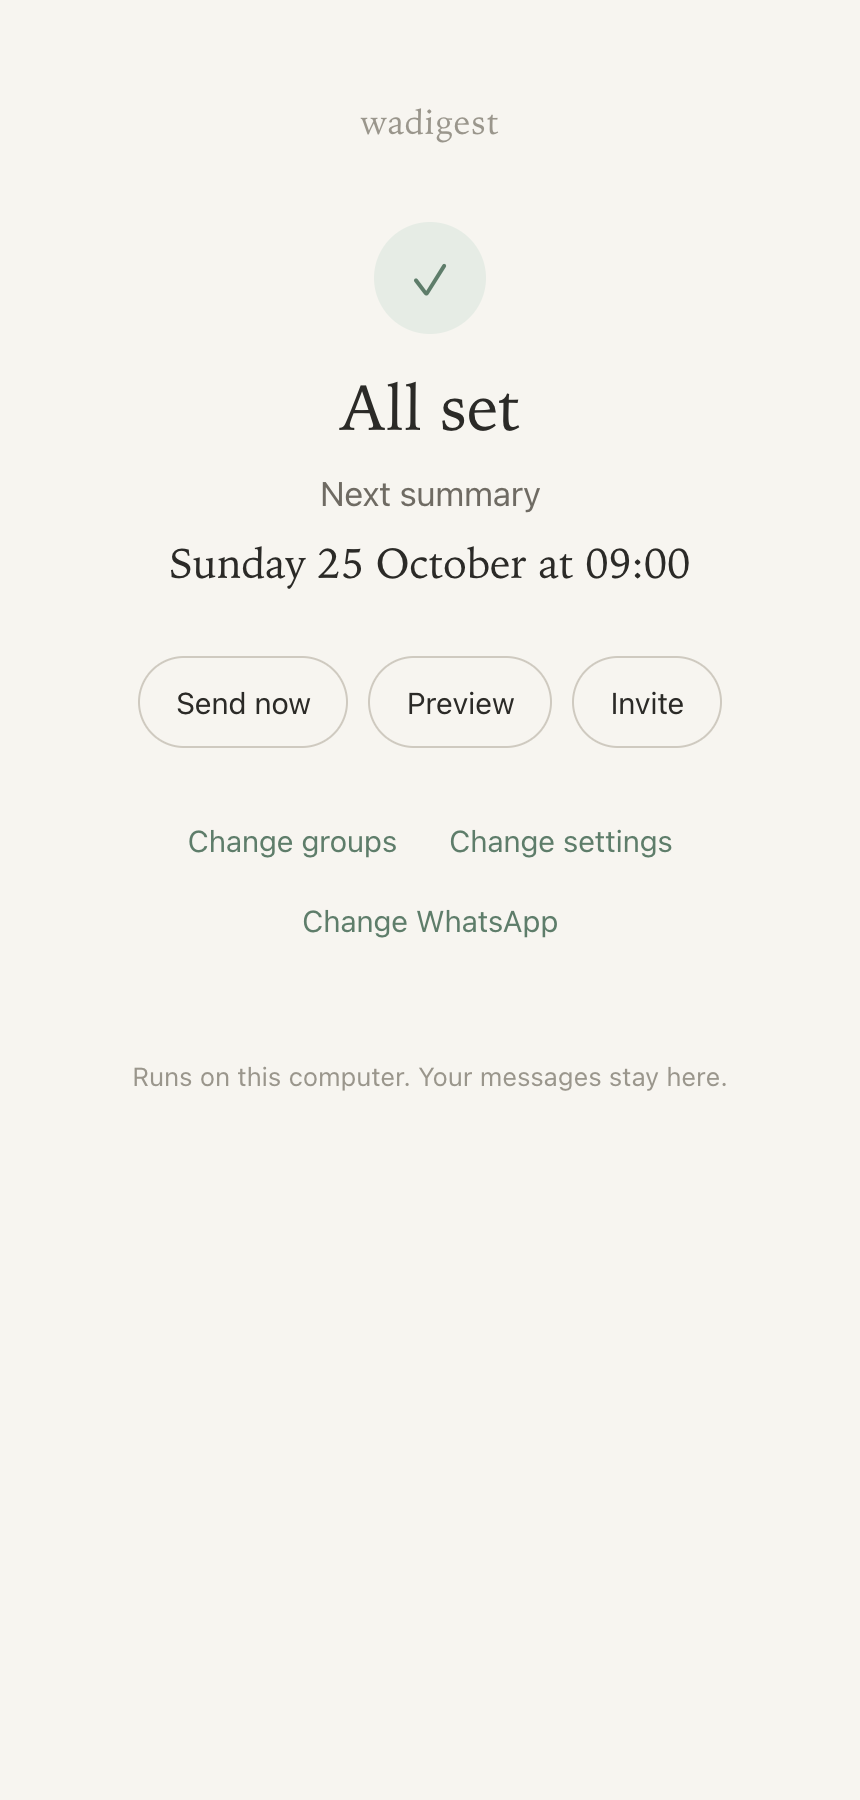
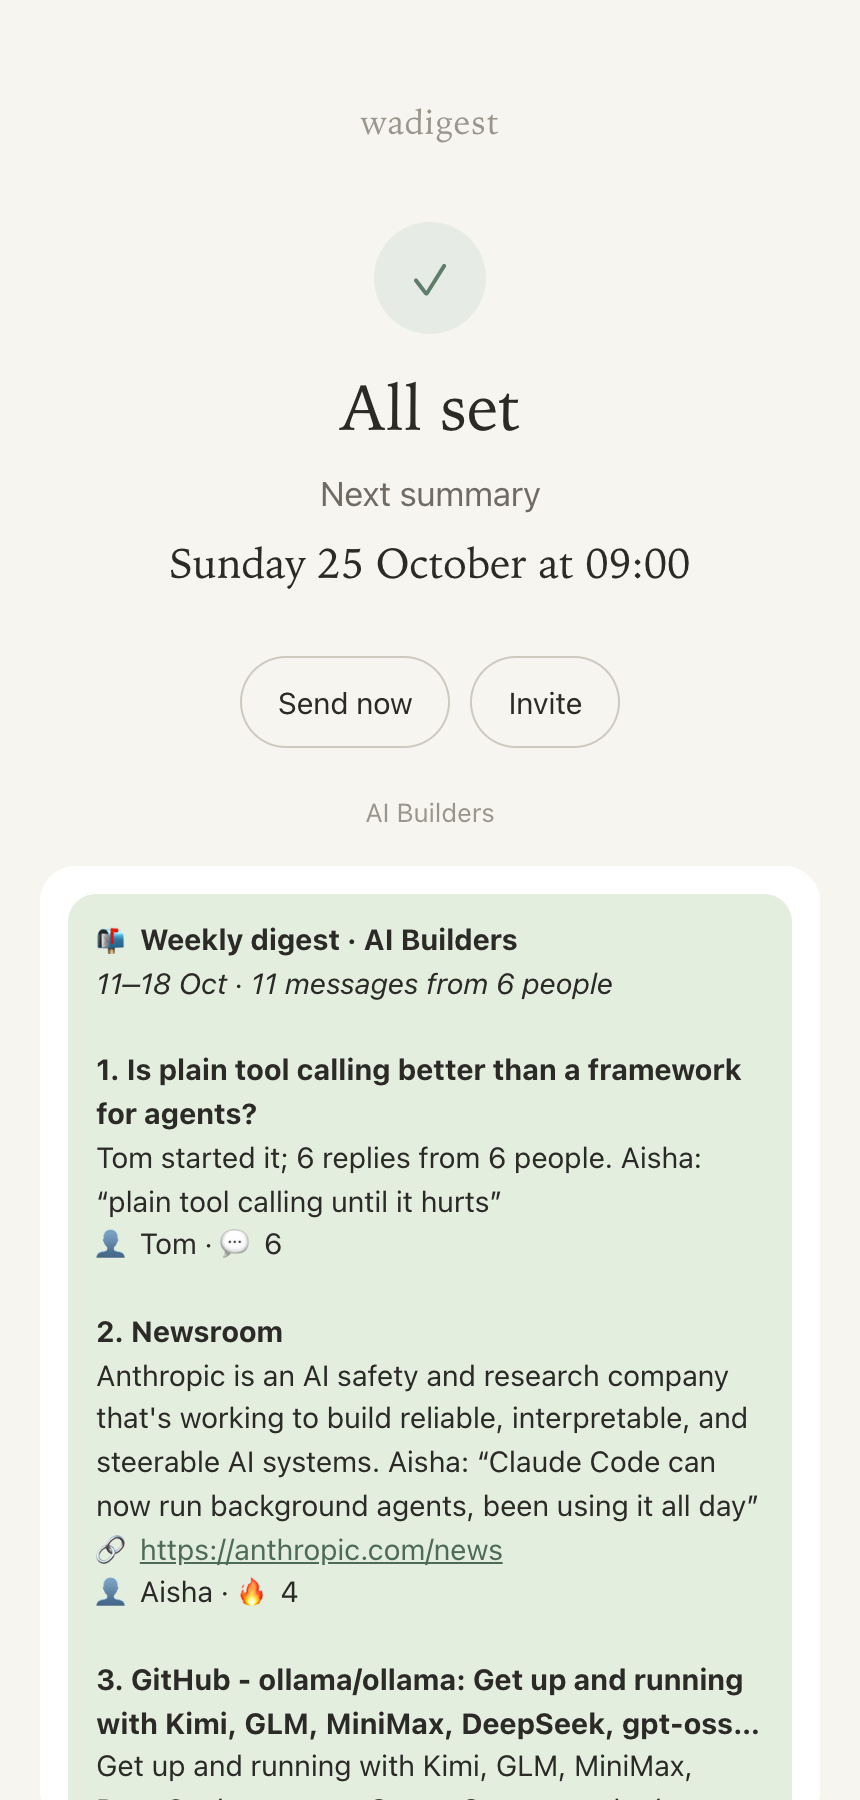
README image and guide show the current home screen: preview on its own, no Preview button

diff --git a/HANDOVER.md b/HANDOVER.md
@@ -204,7 +204,7 @@ No runtime dependencies: just Node 20+.
 ## 7. Next steps (in order)
 
 1. **Demo video:** v2 is done: `demo/wadigest-demo-v2.mp4` (1920x1080, 3:08). It uses real footage of the full flow recorded with the fake WhatsApp tool and sample groups, a Kokoro voice (`bm_fable`, speed 1.08, free, runs locally) and a soft ffmpeg music bed. v1 (ElevenLabs "George") is `demo/wadigest-demo-v1.mp4`. `demo/` is not committed (gitignored). Rebuild steps are in `demo/NOTES.md`. Its build scripts live in the session scratch folder, so copy them somewhere safe if you want to edit the video later. Not checked: the voice by ear, including how it says "wa-dee-jest". The ElevenLabs account has about 1,170 characters left until its monthly reset.
-2. **Before Sunday 25 October 09:00:** leave the runner's Mac on or asleep (it catches up within 3 days). Open the page (`wadigest`) and press **Preview** to check each group.
+2. **Before Sunday 25 October 09:00:** leave the runner's Mac on or asleep (it catches up within 3 days). Open the page (`wadigest`) and read the preview of each group on the home screen.
 3. **Invite test:** on the page, press **Invite**; someone scans it and sends `!digest join`. They should get a reply within about 2 minutes.
 4. **Windows:** run the one PowerShell line on a Windows PC and go through setup.
 5. **Tell the groups:** *"You'll get a summary of this group here and by private message. Send `!digest interests agents, n8n` to get your picks first, or `!digest stop` for no private messages."*

diff --git a/START-HERE.md b/START-HERE.md
@@ -20,7 +20,7 @@ It takes about 10 minutes, once.
 3. **Scan the code.** On your phone, open WhatsApp, then Settings, Linked devices, Link a device. Point the phone at the code on the page.
 4. **Tick your groups**, then press **Continue**.
 5. **Read the sentence.** It says when the summary is sent. Tap a green word to change it. Then press **Start**.
-6. **Press Preview** to see what it would send. Nothing gets sent.
+6. **Read the preview.** The page shows the summary it would send. Nothing gets sent until the scheduled time, or until you press **Send now**.
 
 That's it. You can close the page and the window. If the computer asks whether to stop the running process, say yes. wadigest keeps running in the background.
 
